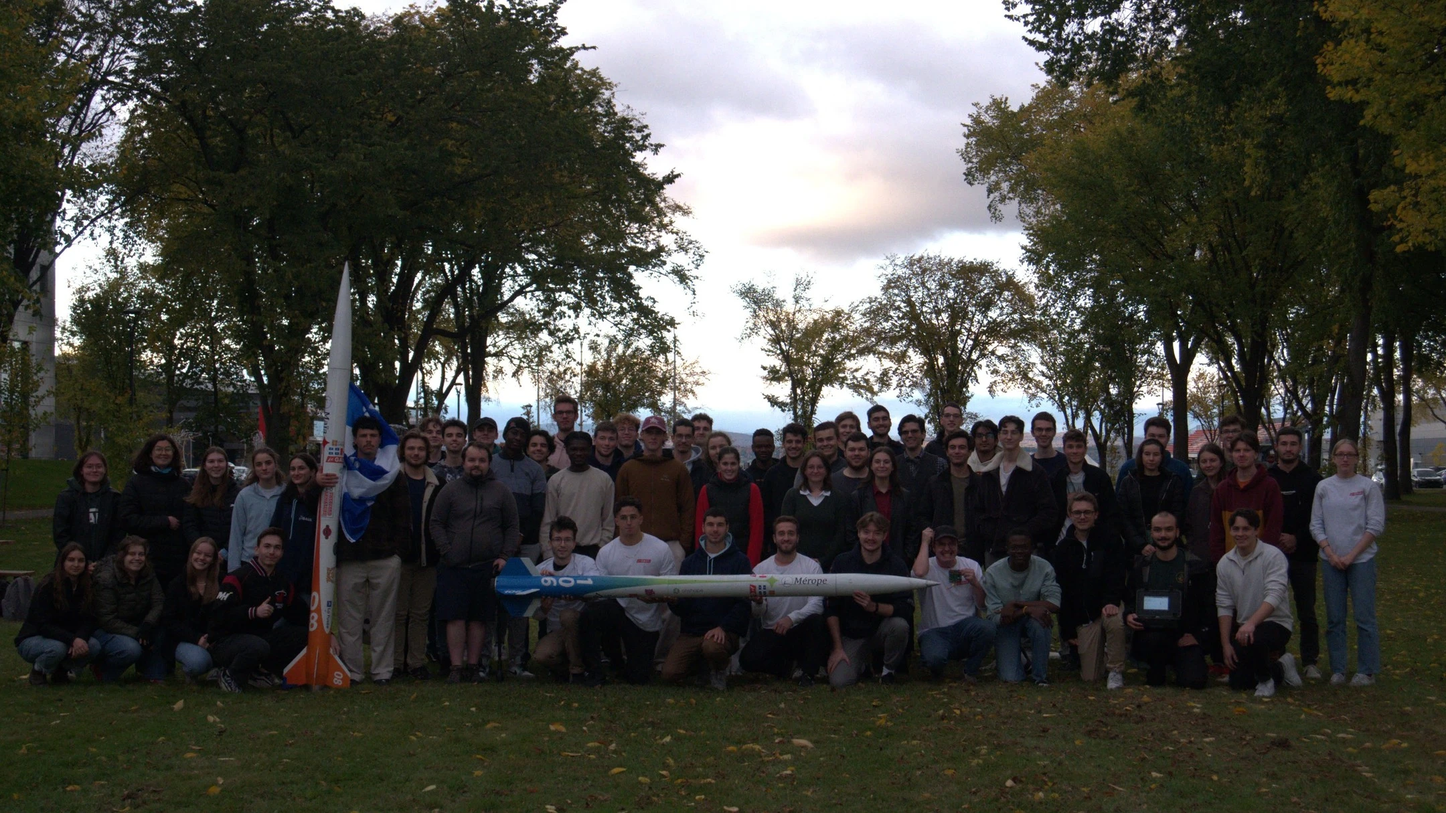
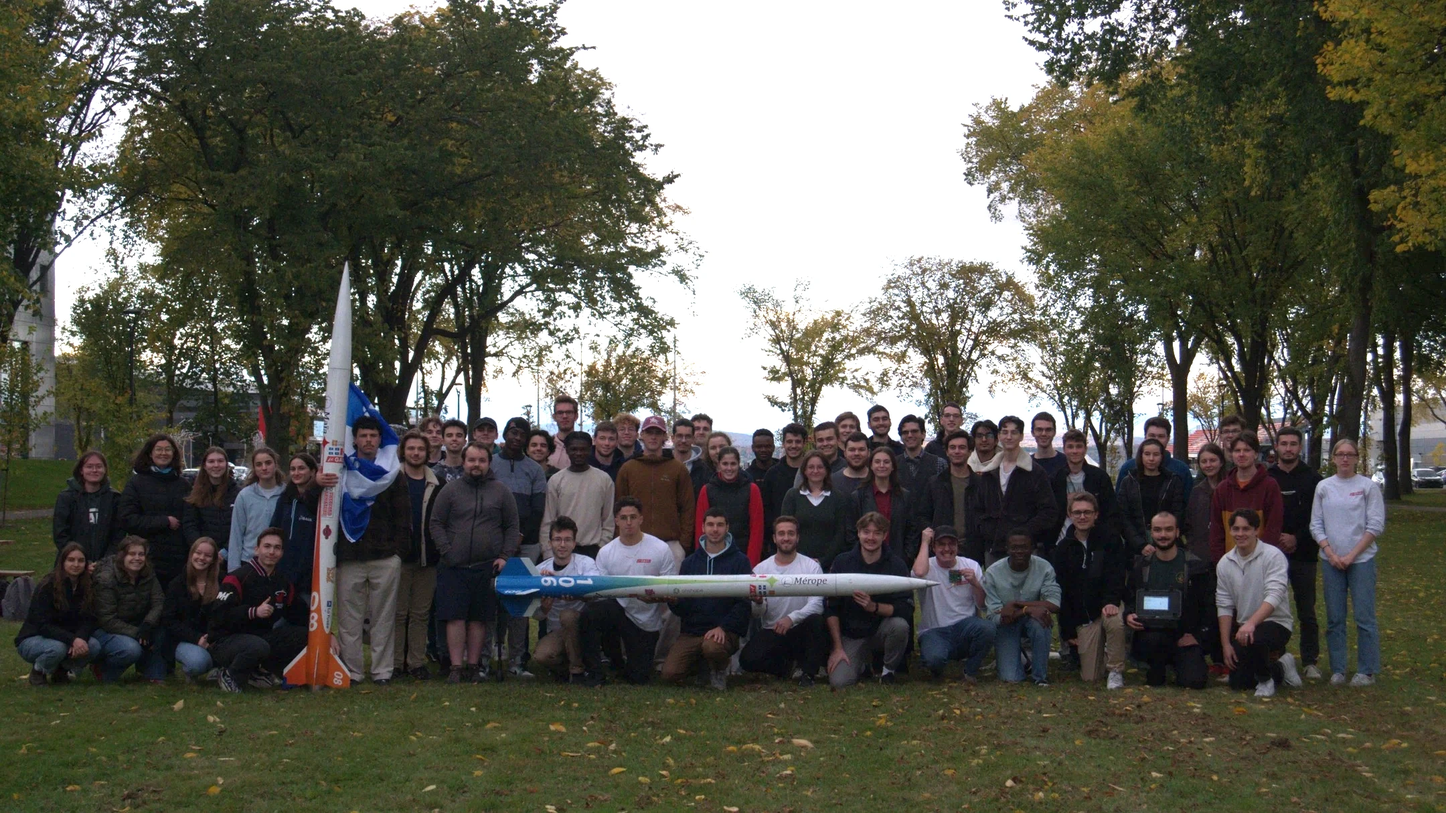
Update de la page home
- Ajustement des photos (exposition, taille et dégradé)
- Photos vers les divisions au lieu d'avoir une ligne de texte
- Ajout d'une section partenaires
- Retrait de la section showcase
- Texte en justifié

diff --git a/src/app/home/home.component.html b/src/app/home/home.component.html
@@ -29,35 +29,29 @@
         professionnellement et personnellement, de rencontrer d'autres passionnés d'aérospatiale et de vivre
         des expériences hors du commun.<br><br>
       </div>
-      <div>
+      <div id="divisions">
         <div class="title">
-          <h3>Les divisions, en bref</h3>
+          <h3>Les divisions</h3>
         </div>
-        <div class="nav-tabs-navigation">
-          <div class="nav-tabs-wrapper">
-            <ul ngbNav #nav="ngbNav" class="nav-tabs">
-              <li [ngbNavItem]="1">
-                <button ngbNavLink>Fusée</button>
-                <ng-template ngbNavContent>
-                  <p class="text-white">Design et lancement de fusée haute puissance</p>
-                </ng-template>
-              </li>
-              <li [ngbNavItem]="2">
-                <button ngbNavLink>Espace</button>
-                <ng-template ngbNavContent>
-                  <p class="text-white">Organisation de soirées d'observation et conception d'instruments atronomiques
-                  </p>
-                </ng-template>
-              </li>
-              <li [ngbNavItem]="3">
-                <button ngbNavLink>Stratos</button>
-                <ng-template ngbNavContent>
-                  <p class="text-white">Design et lancement de ballon sonde stratosphérique</p>
-                </ng-template>
-              </li>
-            </ul>
-            <div [ngbNavOutlet]="nav" class="mt-2"></div>
-          </div>
+        <div class="row">
+          <a class="col-6 col-xs-12 col-md-4 mycard" routerLink="/fusee">
+            <div class="hover">
+              <h1>FUSÉE</h1>
+            </div>
+            <img src="./assets/img/page-fusee/main-fusee-2024.webp" alt="Division Fusée" class="img-rounded img-responsive">
+          </a>
+          <a class="col-6 col-xs-12 col-md-4 mycard" routerLink="/espace">
+            <div class="hover">
+              <h1>ESPACE</h1>
+            </div>
+            <img src="./assets/img/page-espace/main-espace.webp" alt="Division Fusée" class="img-rounded img-responsive">
+          </a>
+          <a class="col-6 col-xs-12 col-md-4 mycard" routerLink="/stratos">
+            <div class="hover">
+              <h1>STRATOS</h1>
+            </div>
+            <img src="./assets/img/page-stratos/main-stratos.webp" alt="Division Fusée" class="img-rounded img-responsive">
+          </a>
         </div>
       </div>
     </div>
@@ -152,8 +146,28 @@
 </section>
 
 
-<!--HISTOIRE-->
+<!--PARTENAIRES-->
 <section class="section section-dark">
+  <div class="container">
+    <div class="title">
+      <h2>Partenaires</h2>
+    </div>
+    <div class="row">
+      <div class="title">
+        Le Groupe Aérospatial de l'Université Laval ne peut évidemment pas construire d'instruments d'observation, de ballons stratosphériques ou
+        de fusées pour représenter l'Université Laval dans des compétitions internationales sans l'aide précieuse de ses partenaires. Grâce à leur
+        générosité et à leur confiance, nous pouvons nourrir la passion des étudiants pour l'espace. Leur appui joue un rôle crucial dans la formation
+        de la prochaine génération d'ingénieurs et de chercheurs passionnés, tout en contribuant à renforcer l'expertise québécoise et canadienne
+        dans un secteur clé de haute technologie. Merci de nous accompagner dans cette mission ambitieuse et visionnaire !
+      </div>
+      <div class="center">
+        <button id="btn-partenaires" class="btn btn-primary btn-round mt-2" routerLink="/partenaires">Liste des partenaires</button>
+      </div>
+    </div>
+  </div>
+</section>
+<!--HISTOIRE-->
+<section class="section">
   <div class="container">
     <div class="title">
       <h2>Histoire</h2>
@@ -186,7 +200,7 @@
 </section>
 
 <!--NASA SHOWCASE-->
-<section class="section">
+<!-- <section class="section">
   <div class="container">
     <div class="row">
       <div class="col-lg-6 col-md-12">
@@ -227,4 +241,4 @@
       </div>
     </div>
   </div>
-</section>
+</section> -->

diff --git a/src/styles.scss b/src/styles.scss
@@ -1,25 +1,34 @@
 /* You can add global styles to this file, and also import other style files */
 
 /* 1. Custom variables */
-$danger-color: #CD2D2C;
-$primary-color:  #CD2D2C;
-$bg-nude: #FFF;
+$danger-color: #cd2d2c;
+$primary-color: #cd2d2c;
+$bg-nude: #fff;
 
 /* 2. Imports */
 /* Importing icons for Facebook and Instagram */
-@import 'https://maxcdn.bootstrapcdn.com/font-awesome/latest/css/font-awesome.min.css';
+@import "https://maxcdn.bootstrapcdn.com/font-awesome/latest/css/font-awesome.min.css";
 
 /* Importing Bootstrap SCSS file. */
-@import 'bootstrap/scss/bootstrap';
+@import "bootstrap/scss/bootstrap";
 
 /* Importing Paper Kit 2 template */
-@import './assets/paper-kit.scss';
-
+@import "./assets/paper-kit.scss";
 
 /* 3. Global style/template edit */
 // Taille de texte plus grand pour les paragraphes
 p {
   font-size: 1rem;
+}
+
+// Texte justifié
+body {
+  text-align: justify;
+
+  h2,
+  h3 {
+    text-align: left;
+  }
 }
 
 /* _carousel.scss */
@@ -38,7 +47,7 @@ p {
 /* _navbars.scss */
 // Ajustement des couleurs des onglets dans les pages
 .nav-tabs .nav-item .nav-link {
-  color: #BBB;
+  color: #bbb;
 
   &.active {
     color: #888;
@@ -50,20 +59,19 @@ p {
 }
 
 .nav-tabs {
-  border-bottom-color: #FFF;
+  border-bottom-color: #fff;
 
   .nav-item {
     .nav-link.active,
     .nav-link.active:hover,
     .nav-link.active:focus {
-      &:after{
-        border-bottom: 11px solid #FFF;
+      &:after {
+        border-bottom: 11px solid #fff;
       }
 
-      &:before{
-        border-bottom: 11px solid #FFF;
+      &:before {
+        border-bottom: 11px solid #fff;
       }
     }
   }
 }
-

diff --git a/src/app/home/home.component.scss b/src/app/home/home.component.scss
@@ -1,10 +1,72 @@
+// Carousel
+@media screen and (min-width: 992px) {
+  .w-lg-75 {
+    width: 75%;
+  }
+}
+
+// Partenaires
+.center {
+  display: flex;
+  justify-content: center;
+  align-items: center;
+}
+
+#btn-partenaires {
+  font-size: medium;
+  font-weight: bold;
+
+  @media screen and (max-width: 767px) {
+    font-size: 12px;
+  }
+}
+
+// Showcase
 .card img {
   width: 100%;
   height: 50%;
 }
 
-@media screen and (min-width: 992px) {
-  .w-lg-75 {
-    width: 75%;
+// Photos divisions
+#divisions {
+  @media screen and (max-width: 300px) {
+    .col-xs-12 {
+      width: 100%;
+    }
+  }
+
+  .mycard {
+    position: relative;
+    margin-bottom: 1rem;
+    transition: transform 300ms cubic-bezier(0.34, 2, 0.6, 1); // bootstrap easing
+
+    .hover {
+      position: absolute;
+      top: 40%;
+      left: 50%;
+      transform: translate(-50%, -50%);
+    }
+  }
+
+  .mycard:hover {
+    transform: translateY(-10px);
+  }
+
+  h1 {
+    color: #eee;
+    font-size: 2.5em;
+    font-weight: 700;
+    font-family: "Montserrat", "Helvetica", Arial, sans-serif;
+    text-shadow: 3px 3px 10px #555;
+
+    @media screen and (max-width: 500px) {
+      font-size: 1.5em;
+    }
+  }
+
+  img {
+    border: 1px solid #eee;
+    aspect-ratio: 16/9;
+    object-fit: cover;
   }
 }
